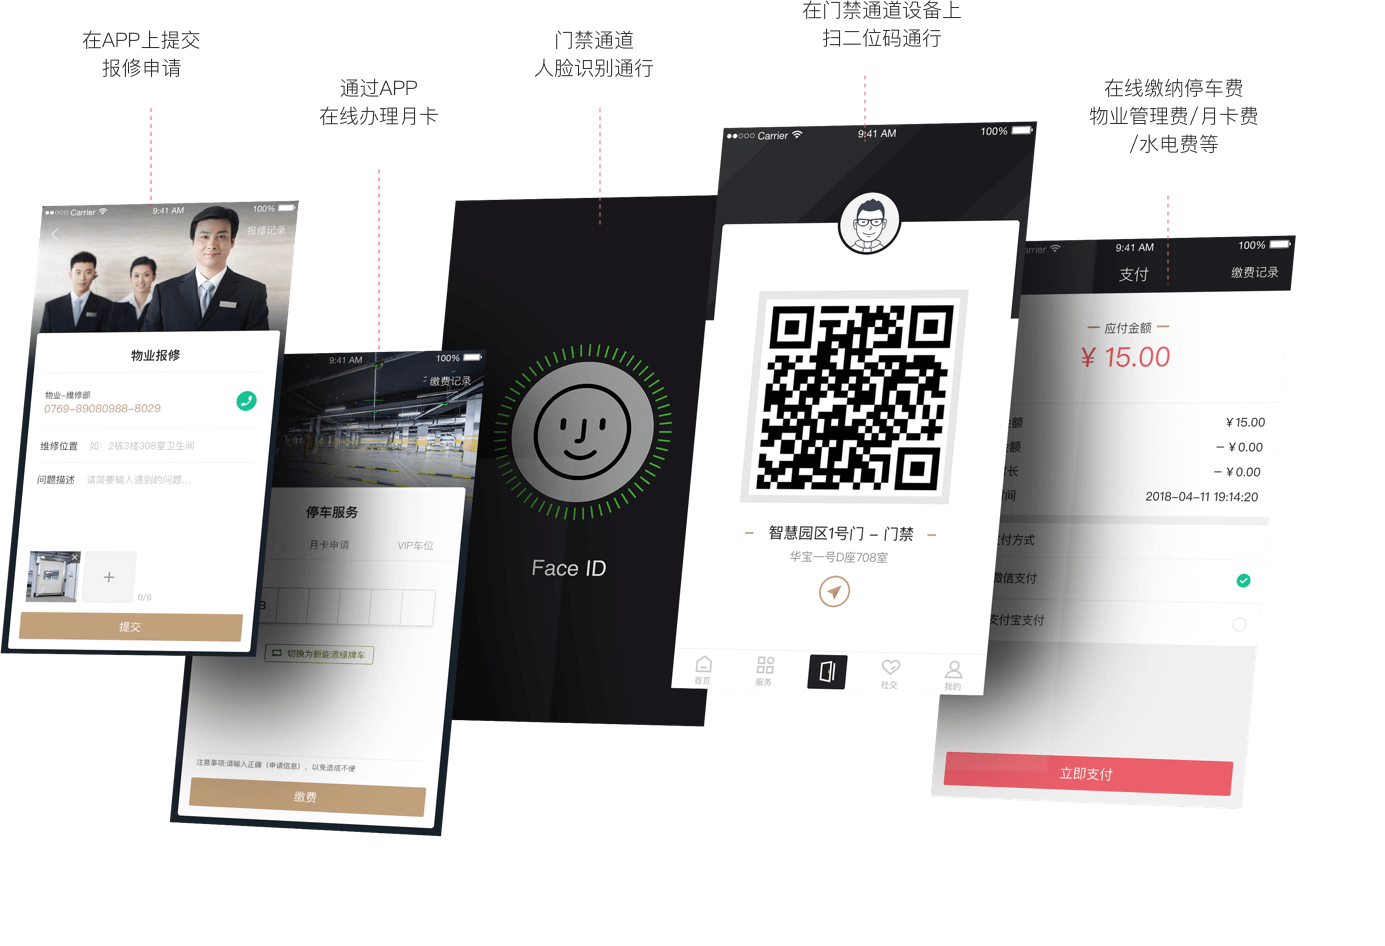
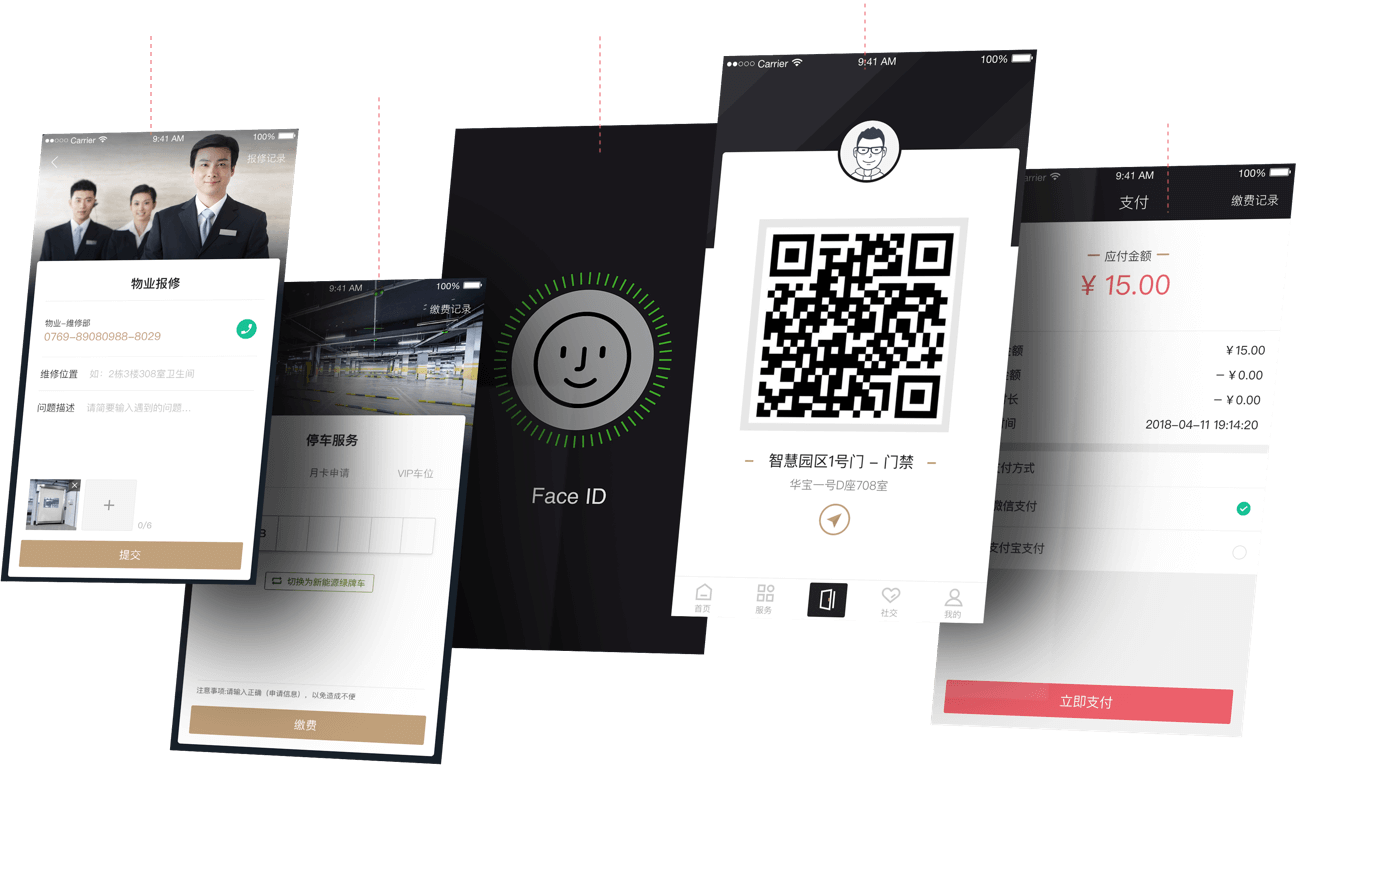
修改

diff --git a/src/views/pages/product.vue b/src/views/pages/product.vue
@@ -181,6 +181,13 @@
         <div class="detail">
           <span>在线物管+自助服务，提高用户体验，降低物业管理成本。</span>
         </div>
+        <div class="text-disc">
+          <span class="fir">在APP上提交报修申请</span>
+          <span class="sec">通过APP在线办理月卡</span>
+          <span class="th">门禁通道人脸识别通行</span>
+          <span class="fou">在门禁通道设备上扫二位码通行</span>
+          <span class="fiv">在线缴纳停车费物业管理费/月卡费</span>
+        </div>
         <div class="usImg"></div>
       </div>
       <div class="user-contact">
@@ -668,6 +675,36 @@
         transform: translateX(-50%);
       }
     }
+    .text-disc{
+      position: absolute;
+      bottom: 15.8rem;
+      height: 3.06rem;
+      left: 50%;
+      transform: translateX(-50%);
+      width: 25.65rem;
+      span{
+        font-family: PingFangSC-Light;
+        font-size: 20px;
+        color: #333333;
+        letter-spacing: 0;
+        display: inline-block;
+        vertical-align: text-top;
+        width: 120px;
+        &.fir{margin: 34px 105px 0 0;}
+        &.sec{margin: 88px 95px 0 0;}
+        &.th{
+          margin: 29px 123px 0 0;
+        }
+        &.fou{
+          width: 160px;
+          margin-right: 136px;
+        }
+        &.fiv{
+          width: 170px;
+          margin: 113px 44px 0 0;
+        }
+      }
+    }
     .usImg{
       position: absolute;
       bottom: 1.67rem;
@@ -677,6 +714,7 @@
       height: 16.19rem;
       background: url(../../assets/p-user-selfSer.png) no-repeat center center;
       background-size: 25.65rem 16.19rem;
+
     }
   }
   .user-contact{

diff --git a/src/views/pages/aboutUs.vue b/src/views/pages/aboutUs.vue
@@ -292,13 +292,13 @@
     .detail{
       ul{
         display: inline-block;
-        width: 28.63%;//10.18rem;
+        width: 33.63%;//10.18rem;
         margin-right: 2.96rem;
         text-align: left;
         vertical-align: top;
         li{
           font-family: PingFangSC-Regular;
-          font-size: 0.44rem;//24px;
+          font-size: 0.37rem;
           color: #FFFFFF;
           letter-spacing: 0;
           line-height: 40px;
